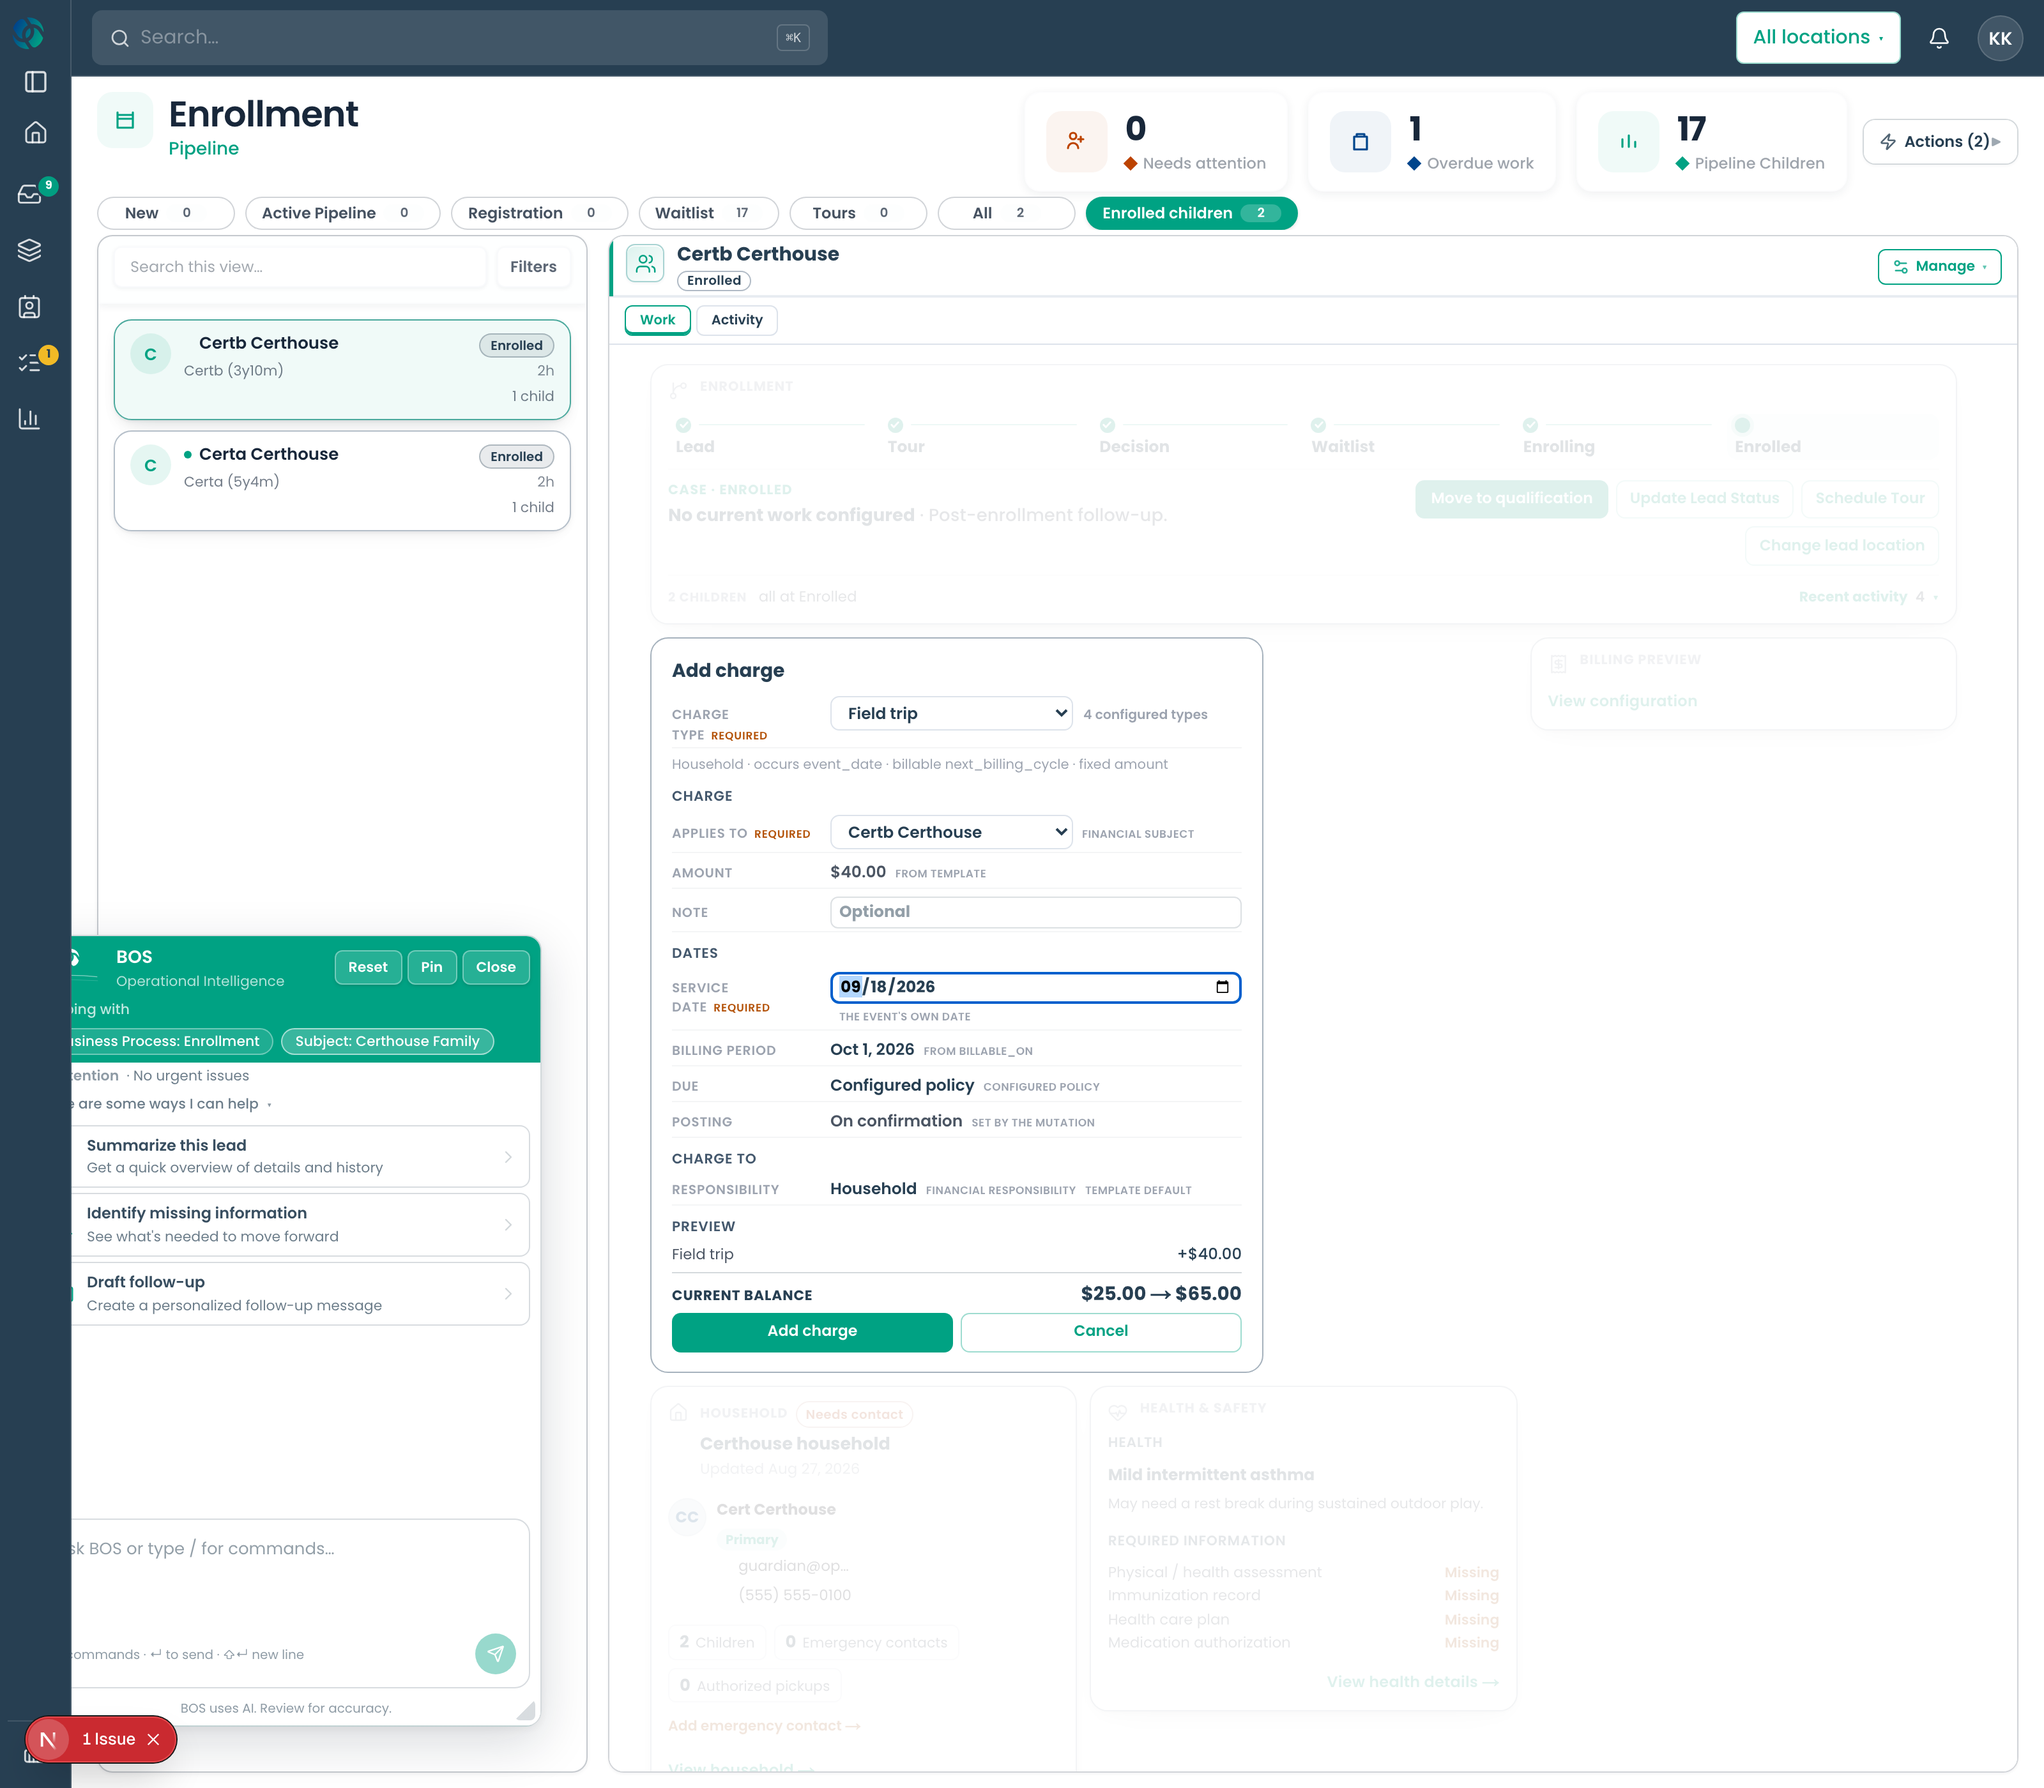
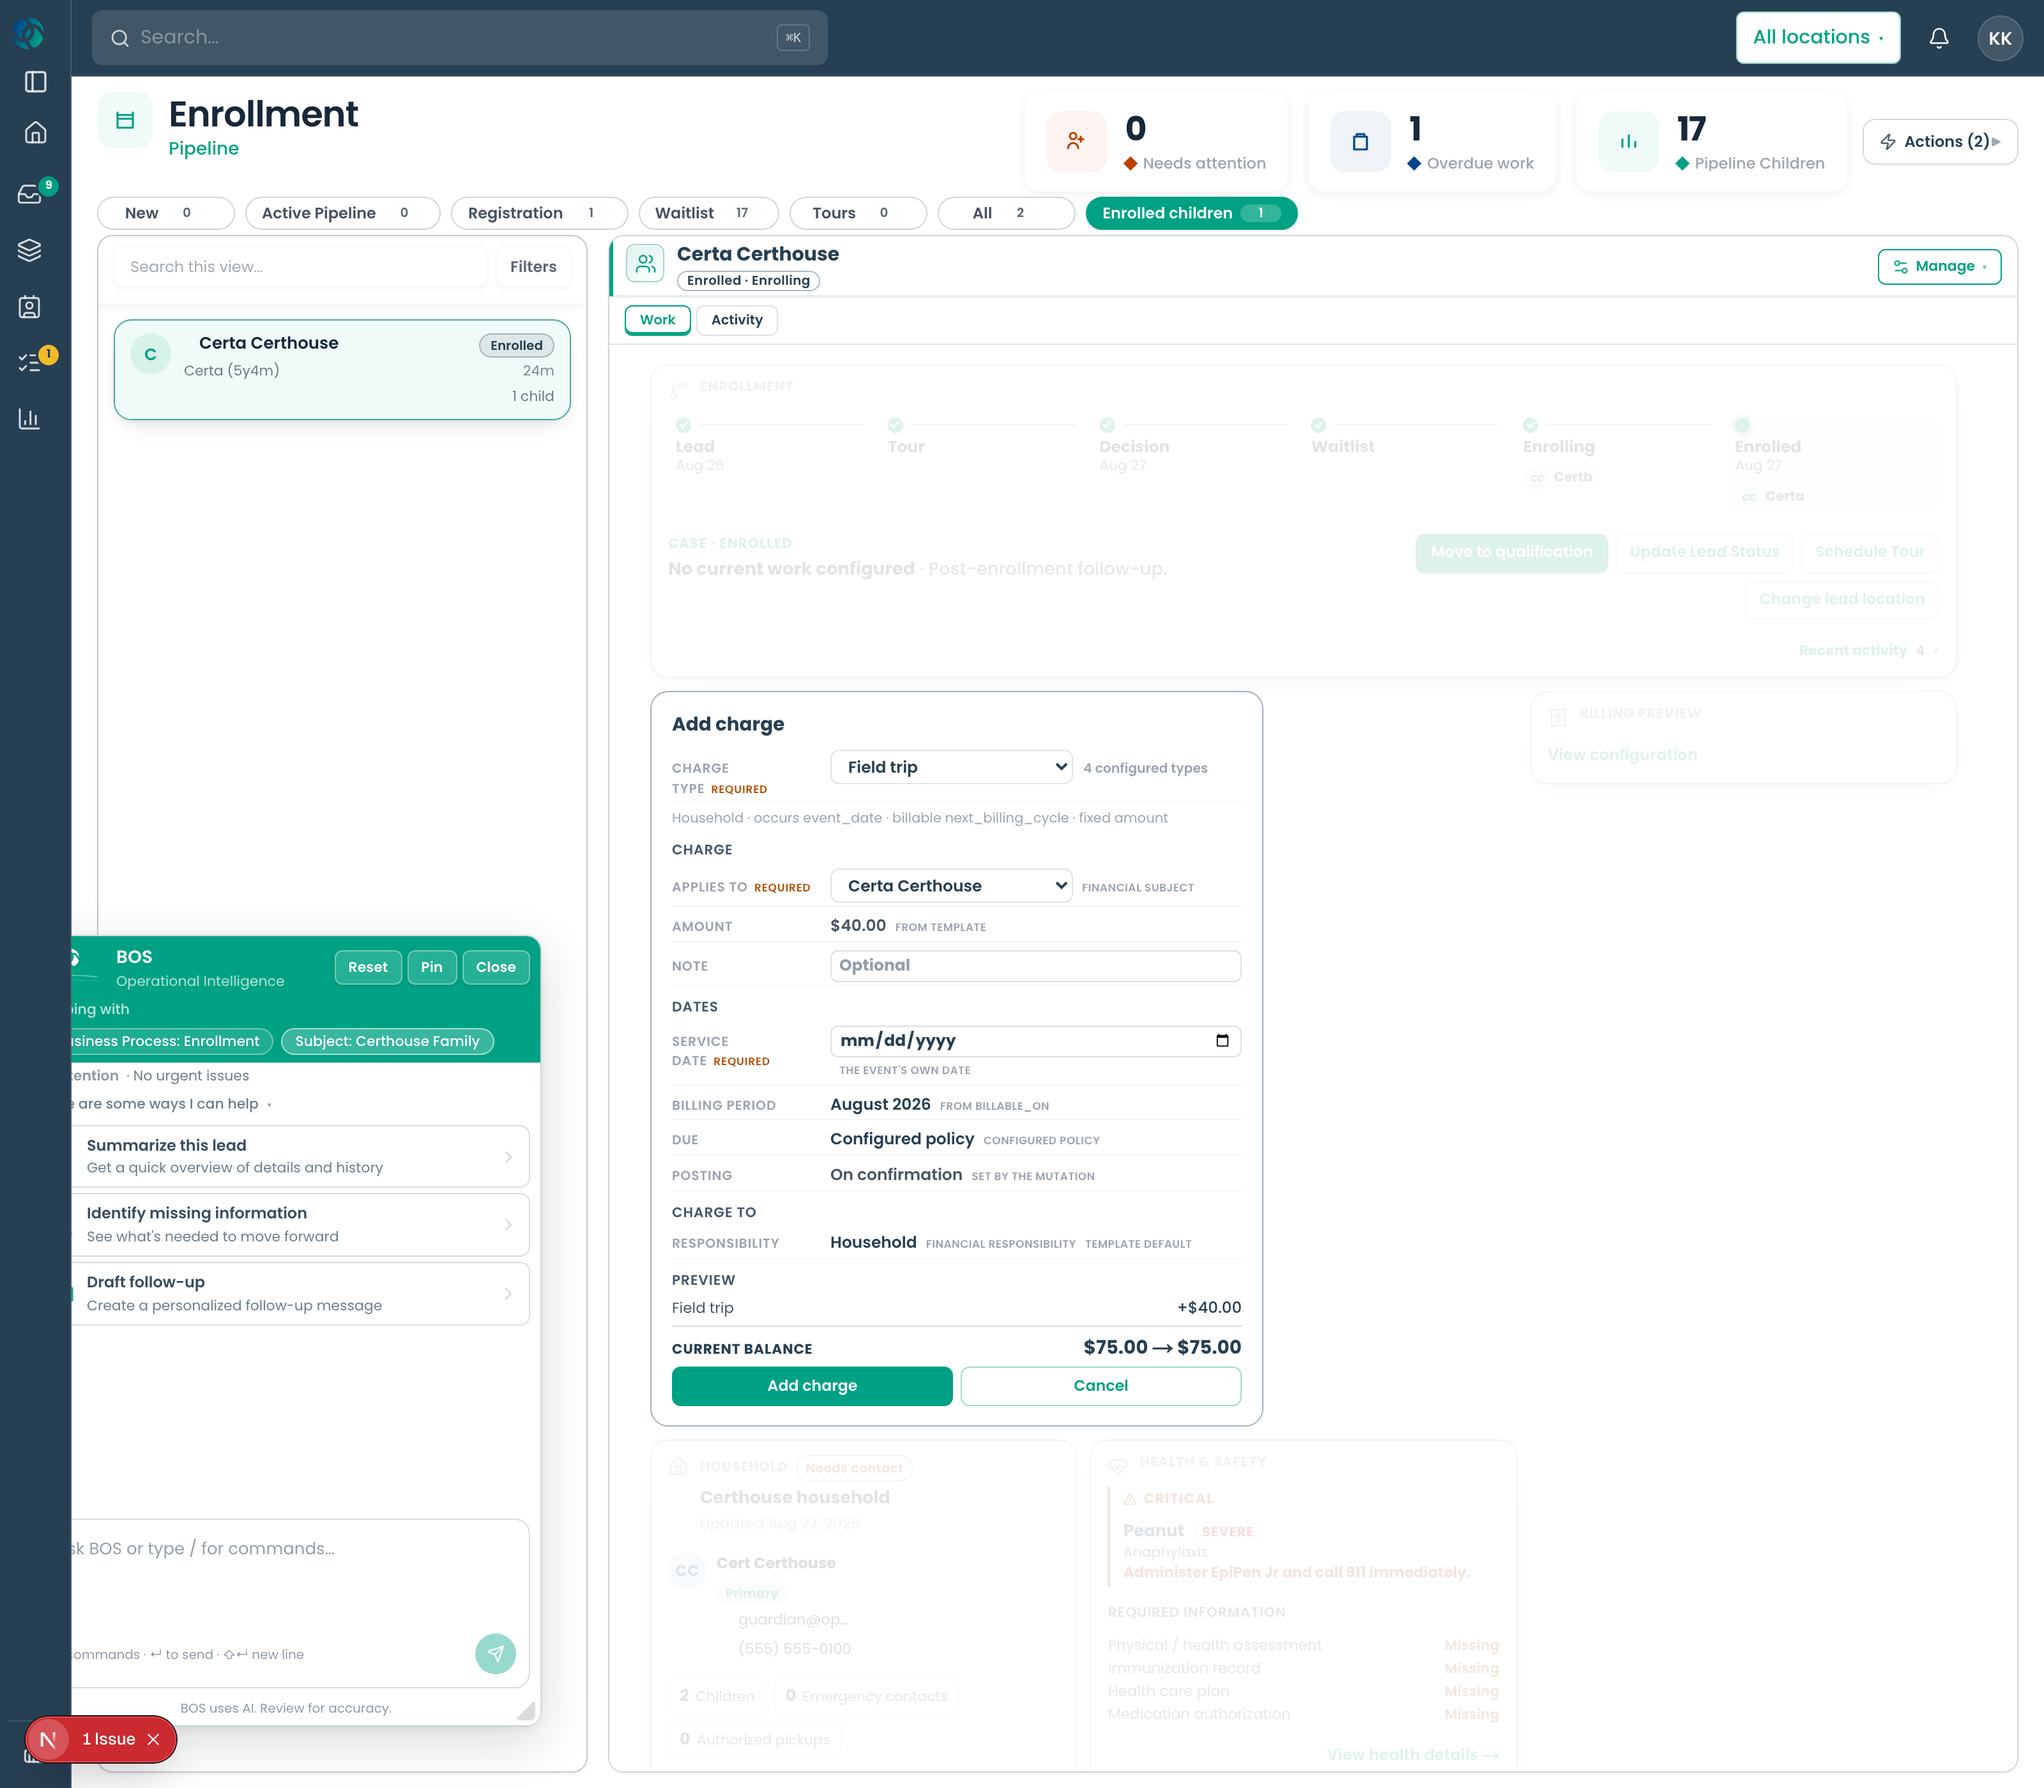
feat(cards): compact Financials reaches production, and ineligible Attendance stays in its card
── COMPACT FINANCIALS EXISTED ONLY IN THE LAB ──

The case composition has declared `encodedDensity: "compact"` for Financials all along, and
nothing read it: the card model hardcodes `standard`, and `encodedDensity` is documented on
the summary doc as "render-inert, preserved verbatim for compatibility". So the approved
compact presentation — the supporting-context version for process surfaces — was reachable
in the design lab and nowhere else.

The composition and the model now meet in `focusPanelWorkModeModelFromDrawerVm`, which is
where the grain's composition is resolved and the model is built. Density selects
presentation, which is what density is for: the compact card answers what is due, why at a
glance, whether payment is healthy, and the ways in, and deliberately does NOT reconcile,
because a half-stated breakdown is more misleading than none.

Keyed off density rather than span on purpose. Span is a LAYOUT fact a published Surface
may override — the case surface hands this card 8 columns while its composition asks for
the compact policy — and an operator's placement should not silently change which
questions a card answers.

Scoped to `financials` deliberately. A blanket override would re-render every card whose
composition entry disagrees with its model default: a much larger change than the one
asked for, and one nobody has looked at.

Certified live, both densities at once: case surface renders
[…]

diff --git a/web/lib/adminV2/runtime/focusPanel/focusPanelWorkModeModelFromDrawerVm.ts b/web/lib/adminV2/runtime/focusPanel/focusPanelWorkModeModelFromDrawerVm.ts
@@ -14,6 +14,7 @@
 
 import { deriveOpportunityFocusPanelPresentation } from "@/lib/adminV2/runtime/focusPanel/deriveOpportunityFocusPanelCards";
 import { buildOperationalContext } from "@/lib/adminV2/runtime/operationalContext/buildOperationalContext";
+import { focusPanelDefaultCompositionForGrain } from "@/lib/adminV2/runtime/focusPanel/composition/focusPanelSummaryDefaultComposition";
 import type { OpportunityDrawerViewModel } from "@/lib/adminV2/viewModel/drawer/types";
 import type { FocusPanelMode } from "@/lib/adminV2/runtime/focusPanel/focusPanelMode";
 import type { FocusPanelCardKey } from "@/lib/adminV2/runtime/focusPanel/focusPanelCardModel";
@@ -62,6 +63,30 @@ export function focusPanelWorkModeModelFromDrawerVm(
         canMutate,
         selectedParticipationId: input.selectedParticipationId ?? null,
     });
+
+    /*
+     * ── THE COMPOSITION'S DECLARED DENSITY SELECTS THE FINANCIALS PRESENTATION ──
+     *
+     * Financials is the one card that ships two approved presentations of one read model: the full
+     * period reconciliation, and a compact supporting-context version for process surfaces that
+     * need the balance and the ways in without the breakdown. Both are the same VM and the same
+     * ownership; density chooses which questions the placement answers.
+     *
+     * The card model hardcodes `standard`, and the composition's `encodedDensity` is documented as
+     * render-inert metadata — so the compact placement the case composition already declares was
+     * unreachable, and the compact presentation existed only in the lab. This is where the two
+     * meet: the grain's composition is resolved here, and the model is built here.
+     *
+     * Scoped to `financials` deliberately. A blanket density override would silently re-render
+     * every card whose composition entry disagrees with its model default, which is a much larger
+     * change than the one being asked for and not one anyone has looked at.
+     */
+    const composition = focusPanelDefaultCompositionForGrain(context.subject.type);
+    const financialsEntry = composition?.find((entry) => entry.key === "financials");
+    const financialsModel = cards.get("financials");
+    if (financialsEntry?.encodedDensity && financialsModel) {
+        cards.set("financials", { ...financialsModel, density: financialsEntry.encodedDensity });
+    }
 
     const cardReadiness = new Map<FocusPanelCardKey, FocusPanelCardReadiness>();
     for (const [key, model] of cards) {

diff --git a/web/components/admin/focusPanel/cards/AttendanceCard.tsx b/web/components/admin/focusPanel/cards/AttendanceCard.tsx
@@ -144,10 +144,13 @@ export default function AttendanceCard({ model, context, receded = false }: Prop
      * is a horizontal day timeline at full row width. That is not a denser version of the same
      * card — it is a different one.
      *
-     * The refusal path stays below: `unavailableReason` means the child has no attendable enrolment,
-     * which is not an unrecorded day and must not render as one.
+     * INELIGIBILITY RENDERS AT THE SAME DENSITY, in the same card. `unavailableReason` means the
+     * child has no attendable enrolment — which is not an unrecorded day, and the card says so in
+     * its own words rather than dropping to a different layout. Falling back to the legacy grid for
+     * this state was how the approved timeline and a four-slot grid ended up on the same surface,
+     * one per record.
      */
-    if (vm && !vm.unavailableReason) {
+    if (vm) {
         return (
             <div
                 className="alloy-os-attendance"
@@ -156,12 +159,21 @@ export default function AttendanceCard({ model, context, receded = false }: Prop
             >
                 <ApprovedAttendanceCard
                     evidence={adaptAttendanceVmToAttendanceCard(vm)}
-                    commands={{
-                        checkIn: () => void run("attendance.check_in"),
-                        markAbsent: () => void run("attendance.mark_absent"),
-                        checkOut: () => void run("attendance.check_out"),
-                        running,
-                    }}
+                    /*
+                     * NO COMMANDS WHEN THERE IS NOTHING TO COMMAND. A child with no attendable
+                     * enrolment cannot be checked in, and offering the control would be an
+                     * affordance the domain will refuse — the card states the reason instead.
+                     */
+                    commands={
+                        vm.unavailableReason ?
+                            undefined
+                        :   {
+                                checkIn: () => void run("attendance.check_in"),
+                                markAbsent: () => void run("attendance.mark_absent"),
+                                checkOut: () => void run("attendance.check_out"),
+                                running,
+                            }
+                    }
                 />
             </div>
         );

diff --git a/web/components/admin/focusPanel/cards/FinancialsCard.tsx b/web/components/admin/focusPanel/cards/FinancialsCard.tsx
@@ -455,7 +455,20 @@ export default function FinancialsCard({ model, context, receded = false, coordi
                         rows: periodRows,
                         currency,
                     })}
-                    span={model.span === 1 ? 1 : "row"}
+                    /*
+                     * DENSITY SELECTS THE PRESENTATION, which is what density is for.
+                     *
+                     * `compact` is supporting financial context inside another operating process —
+                     * what is due, why at a glance, whether payment is healthy, and the ways in. It
+                     * deliberately does NOT reconcile: a half-stated breakdown is more misleading
+                     * than none. `standard` is the full period.
+                     *
+                     * Keyed off the model's density rather than its span because span is a LAYOUT
+                     * fact a published Surface may override — the case surface hands this card 8
+                     * columns while its composition asks for the compact policy, and the operator's
+                     * placement should not silently change which questions the card answers.
+                     */
+                    span={model.density === "compact" ? 1 : "row"}
                     onDetails={() => setOverlay("detail")}
                     onAddCharge={() => setOverlay("add_charge")}
                 />

diff --git a/web/components/operationalCards/AttendanceCard.tsx b/web/components/operationalCards/AttendanceCard.tsx
@@ -75,12 +75,17 @@ export default function AttendanceCard({
                             {evidence.emptyLine
                                 ?? `Expected ${expected.fromLabel} – ${expected.toLabel}. Nothing recorded yet.`}
                         </EmptyLine>
-                        <ActionRow>
-                            <Action primary onClick={commands?.checkIn}>
-                                Check in
-                            </Action>
-                            <Action onClick={commands?.markAbsent}>Mark absent</Action>
-                        </ActionRow>
+                        {/* Controls only where a command exists to run. A host that supplies none
+                            is stating that this subject cannot be checked in, and an inert button
+                            would contradict the line above it. */}
+                        {commands ? (
+                            <ActionRow>
+                                <Action primary onClick={commands.checkIn}>
+                                    Check in
+                                </Action>
+                                <Action onClick={commands.markAbsent}>Mark absent</Action>
+                            </ActionRow>
+                        ) : null}
                     </CardBody>
                 ) : (
                     <CardBody className="alloy-os-attendance__body">

diff --git a/web/lib/adminV2/runtime/focusPanel/attendance/adaptAttendanceVmToAttendanceCard.ts b/web/lib/adminV2/runtime/focusPanel/attendance/adaptAttendanceVmToAttendanceCard.ts
@@ -179,7 +179,14 @@ export function adaptAttendanceVmToAttendanceCard(vm: AttendanceCardVM): Attenda
          * specimen's default produces when the platform has no expected window to fill it with.
          */
         emptyLine:
-            vm.state === "absent" ? "Marked absent today."
+            /*
+             * INELIGIBLE is not EMPTY. A child with no attendable enrolment has no day to record,
+             * and the card says which of the two it is — in the same card, at the same density,
+             * because dropping to another layout for this state is what put a timeline and a
+             * four-slot grid on the same surface.
+             */
+            vm.unavailableReason ? vm.unavailableReason
+            : vm.state === "absent" ? "Marked absent today."
             : vm.expected.roomLabel ?
                 `Expected in ${vm.expected.roomLabel}. Nothing recorded yet.`
             : vm.expected.expected ? "Expected today. Nothing recorded yet."
